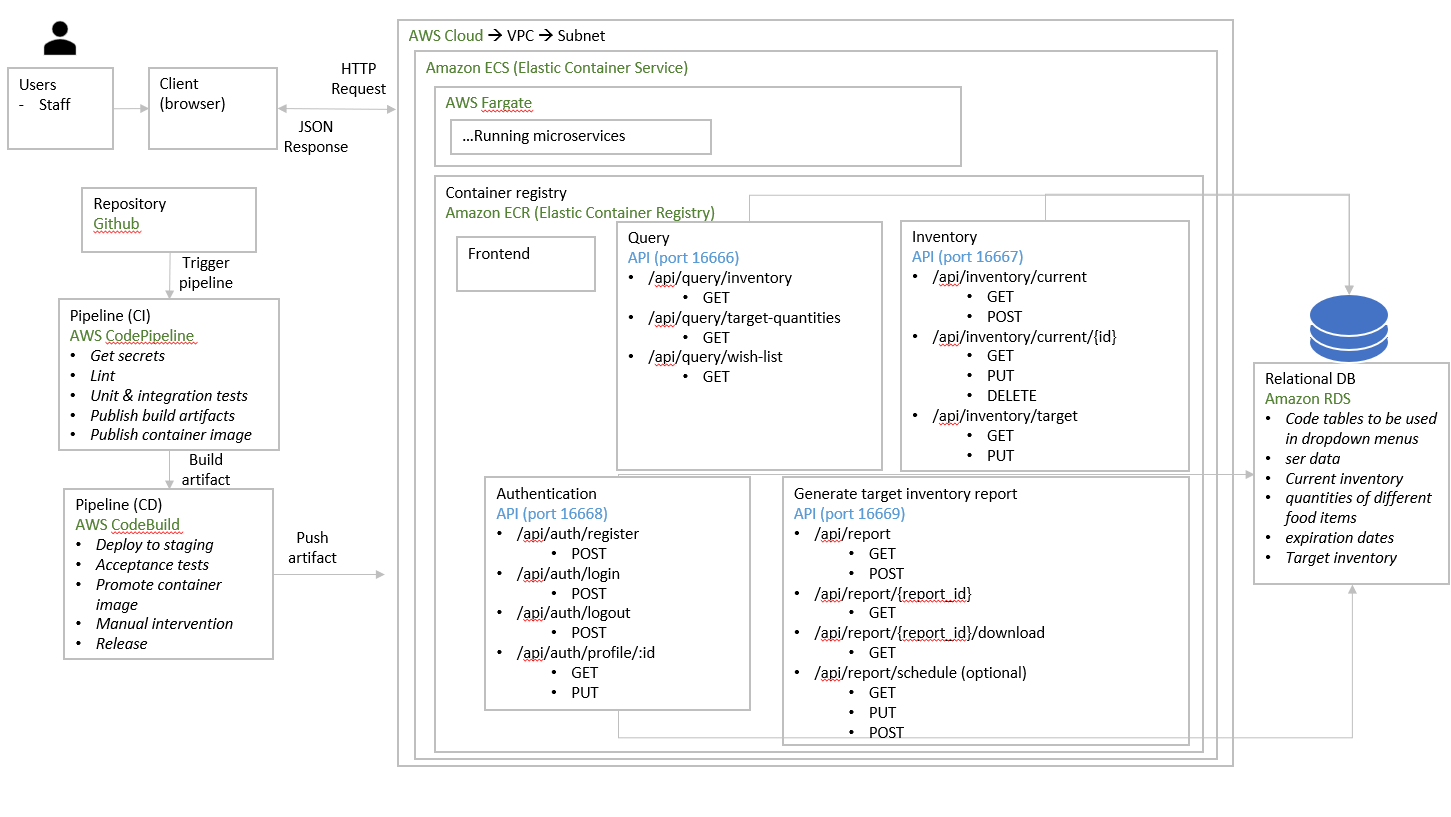
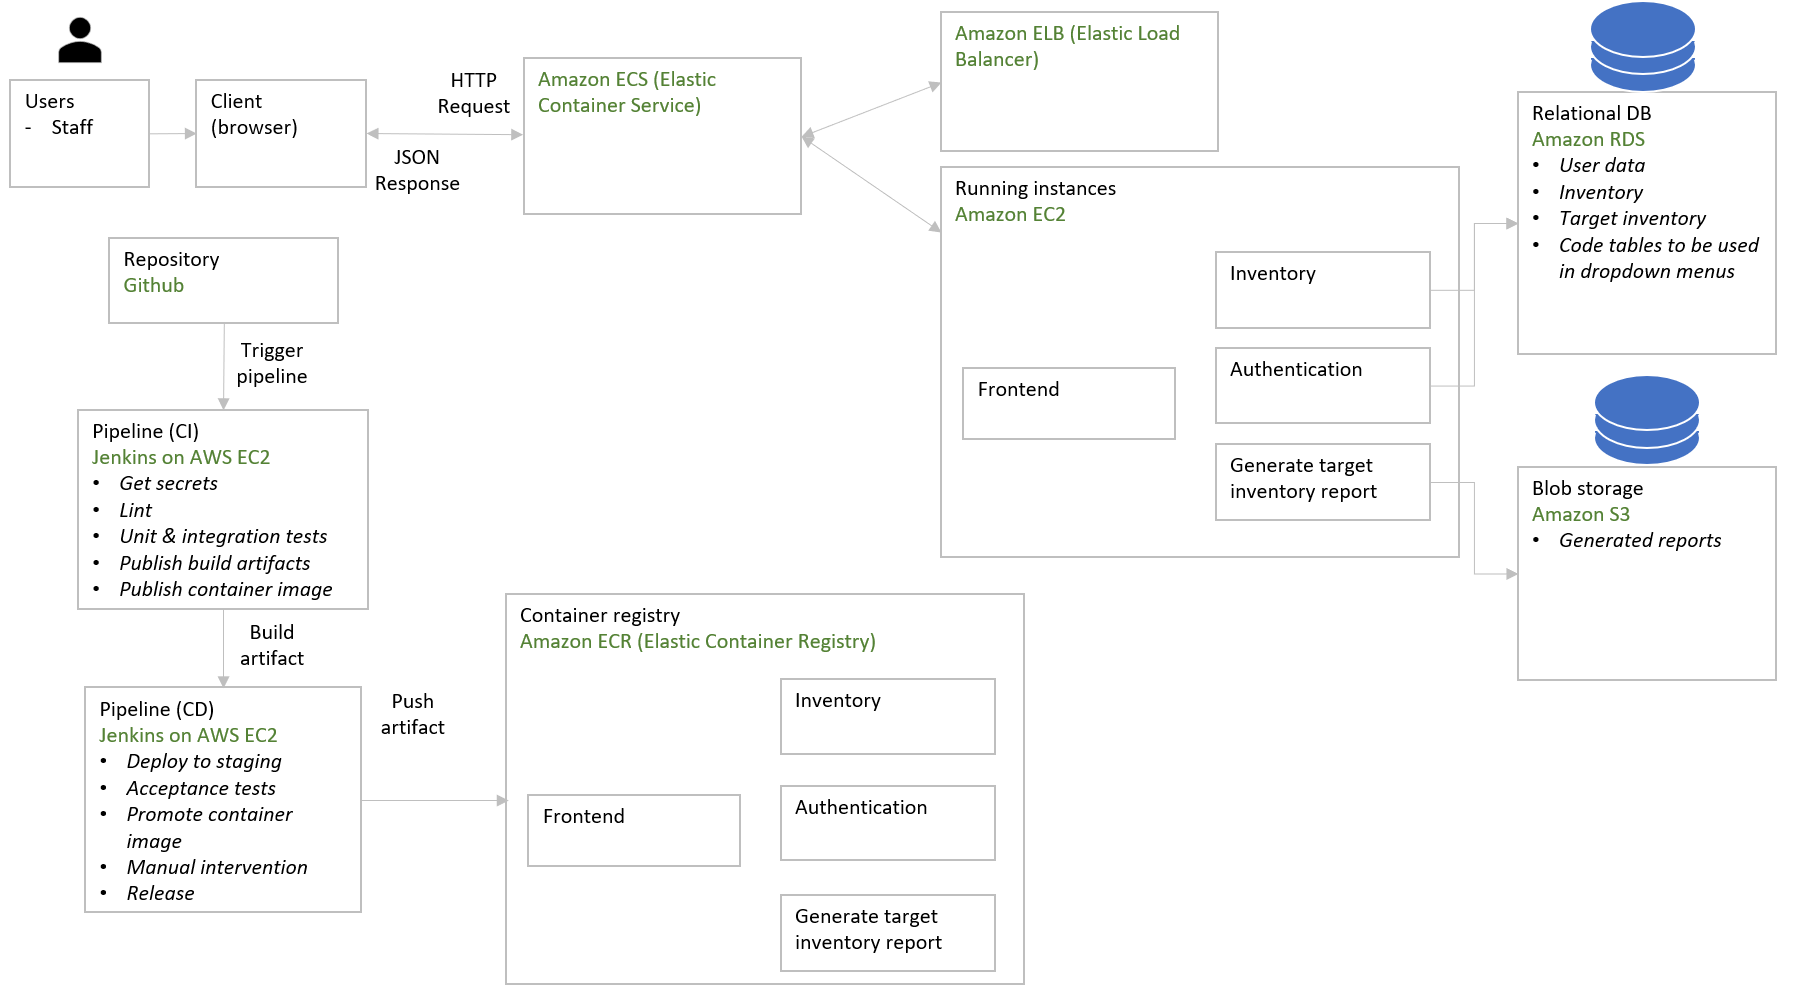
updated architecture, tech specs, entities

diff --git a/architecture/api-tech-specs.md b/architecture/api-tech-specs.md
@@ -1,11 +1,3 @@
-# Query
-
-| **API**   | **Method**  | **Request Body**  | **Response Body** | **Remarks**  |
-| --- | ----------- | --- | --- | --- |
-| **/api/query/inventory**         | GET         |                   | { payload: […inventory]}                                                       |
-| **/api/query/target-quantities** | GET         |                   | { payload: […targetInventory]}                                                 |                                                                                                                                                                                                                                                                               |     |
-| **/api/query/wish-list**         | GET         | -                 | {"high": ["Item A", "Item B", "Item C"],"low": ["Item D", "Item E","Item F"]}  | "high" would contain the list of items where current_inventory is less than target_inventory, ordered from largest to smallest difference;"low" would contain the list of items where current_inventory exceeds target_inventory, ordered from smallest to largest difference |
-
 # Authentication
 
 | **API** | **Method**  | **Request Body**  | **Response Body**  | **Remarks** |
@@ -27,3 +19,8 @@
 | api/inventory/current/:id | DELETE     |                                | { payload: inventory.id}       |                                                           |
 | /api/inventory/target     | GET        |                                | { payload: […targetInventory]} |                                                           |
 | /api/inventory/target     | PUT        | { payload: […targetInventory]} | { payload: inventory.id}       |                                                           |
+#Report
+| **API**   | **Method** | **Request Body**  | **Response Body**  |**Remarks**                                               |
+| ---- | --- | ---- | --- | --- |
+| api/report?month={}&year={}     | GET        |                                | { message: payload: [...report] }       | both month & year query parameters optional |
+| api/report/download?month={}&year={}     | GET       | { message: payload: urlString }       |                                |  both month & year query parameters optional                                                         |

diff --git a/README.md b/README.md
@@ -29,6 +29,13 @@
 | email    |             |
 | role     |             |
 
+## Report
+| Field    | Description |
+| -------- | ----------- |
+| month |             |
+| year |             |
+| url    | Amazon S3 object url            |
+
 # ERD for relational DB
 
 Head to this link and paste the code in:
